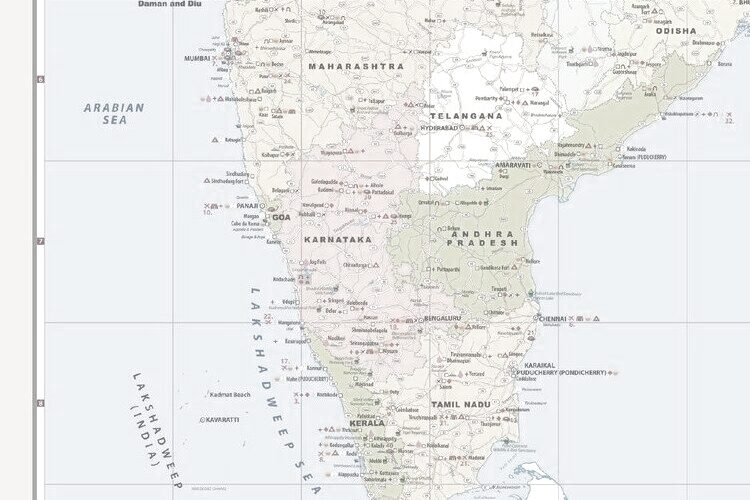
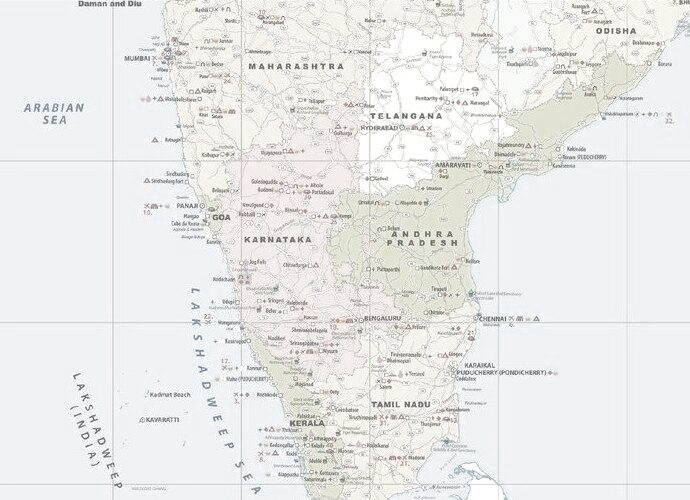
Trim PDF page margin from Kerala map for symmetric edges

diff --git a/tour-nov-2026.html b/tour-nov-2026.html
@@ -791,12 +791,12 @@
             <div class="g" style="background-image:url('images/extensions/kerala-elephants.jpg');"><span class="caption">Wild elephants, Periyar</span></div>
             <div class="g" style="background-image:url('images/extensions/kerala-coconut-climber.jpg');"><span class="caption">Coconut climber</span></div>
           </div>
-          <figure class="ext-route-map" style="aspect-ratio: 750 / 500;" aria-label="Route map: Mumbai to Kerala loop and back">
-            <svg viewBox="0 0 750 500" xmlns="http://www.w3.org/2000/svg" preserveAspectRatio="xMidYMid slice" role="img">
-              <image href="images/kerala-extension-base.jpg" x="0" y="0" width="750" height="500" preserveAspectRatio="xMidYMid slice"/>
+          <figure class="ext-route-map" style="aspect-ratio: 690 / 500;" aria-label="Route map: Mumbai to Kerala loop and back">
+            <svg viewBox="0 0 690 500" xmlns="http://www.w3.org/2000/svg" preserveAspectRatio="xMidYMid slice" role="img">
+              <image href="images/kerala-extension-base.jpg" x="0" y="0" width="690" height="500" preserveAspectRatio="xMidYMid slice"/>
 
               <!-- Title card top-right -->
-              <g transform="translate(508,22)">
+              <g transform="translate(448,22)">
                 <rect width="224" height="118" fill="rgba(251,248,240,0.95)" stroke="#9E532B" stroke-width="1"/>
                 <text x="14" y="22" font-family="Inter Tight, sans-serif" font-size="9" letter-spacing="2" fill="#9E532B" font-weight="600">POST-TOUR EXTENSION</text>
                 <text x="14" y="46" font-family="Fraunces, Georgia, serif" font-size="18" font-weight="600" fill="#14213D">Five days in Kerala</text>
@@ -810,39 +810,39 @@
 
               <!-- Flight path halo (Mumbai → Cochin curve) -->
               <g stroke="#FBF8F0" stroke-width="11" fill="none" stroke-linecap="round" opacity="0.9">
-                <path d="M 208 60 Q 145 245, 258 400"/>
+                <path d="M 148 60 Q 85 245, 198 400"/>
               </g>
               <!-- Flight path dashed -->
-              <path d="M 208 60 Q 145 245, 258 400" stroke="#9E532B" stroke-width="2.8" fill="none" stroke-linecap="round" stroke-dasharray="7 7"/>
+              <path d="M 148 60 Q 85 245, 198 400" stroke="#9E532B" stroke-width="2.8" fill="none" stroke-linecap="round" stroke-dasharray="7 7"/>
               <!-- Outbound arrow -->
-              <g transform="translate(150, 215) rotate(105)"><path d="M -6 -5 L 4 0 L -6 5 Z" fill="#9E532B"/></g>
+              <g transform="translate(90, 215) rotate(105)"><path d="M -6 -5 L 4 0 L -6 5 Z" fill="#9E532B"/></g>
               <!-- Return arrow -->
-              <g transform="translate(175, 135) rotate(290)"><path d="M -6 -5 L 4 0 L -6 5 Z" fill="#9E532B"/></g>
+              <g transform="translate(115, 135) rotate(290)"><path d="M -6 -5 L 4 0 L -6 5 Z" fill="#9E532B"/></g>
 
               <!-- Kerala road loop halo -->
               <g stroke="#FBF8F0" stroke-width="11" fill="none" stroke-linecap="round" stroke-linejoin="round" opacity="0.9">
-                <path d="M 270 405 L 420 380 L 440 440 L 270 465 Z"/>
+                <path d="M 210 405 L 360 380 L 380 440 L 210 465 Z"/>
               </g>
               <!-- Kerala road loop solid -->
-              <path d="M 270 405 L 420 380 L 440 440 L 270 465 Z"
+              <path d="M 210 405 L 360 380 L 380 440 L 210 465 Z"
                     stroke="#9E532B" stroke-width="2.8" fill="none" stroke-linecap="round" stroke-linejoin="round"/>
 
               <!-- Markers -->
               <g font-family="Inter Tight, sans-serif" font-weight="600" font-size="12" text-anchor="middle">
-                <g transform="translate(195,50)"><circle r="14" fill="#FBF8F0" stroke="#9E532B" stroke-width="2.4"/><text y="4" fill="#9E532B">1</text></g>
-                <g transform="translate(270,405)"><circle r="13" fill="#FBF8F0" stroke="#9E532B" stroke-width="2.2"/><text y="4" fill="#9E532B">2</text></g>
-                <g transform="translate(420,380)"><circle r="13" fill="#FBF8F0" stroke="#9E532B" stroke-width="2.2"/><text y="4" fill="#9E532B">3</text></g>
-                <g transform="translate(440,440)"><circle r="13" fill="#FBF8F0" stroke="#9E532B" stroke-width="2.2"/><text y="4" fill="#9E532B">4</text></g>
-                <g transform="translate(270,465)"><circle r="13" fill="#FBF8F0" stroke="#9E532B" stroke-width="2.2"/><text y="4" fill="#9E532B">5</text></g>
+                <g transform="translate(135,50)"><circle r="14" fill="#FBF8F0" stroke="#9E532B" stroke-width="2.4"/><text y="4" fill="#9E532B">1</text></g>
+                <g transform="translate(210,405)"><circle r="13" fill="#FBF8F0" stroke="#9E532B" stroke-width="2.2"/><text y="4" fill="#9E532B">2</text></g>
+                <g transform="translate(360,380)"><circle r="13" fill="#FBF8F0" stroke="#9E532B" stroke-width="2.2"/><text y="4" fill="#9E532B">3</text></g>
+                <g transform="translate(380,440)"><circle r="13" fill="#FBF8F0" stroke="#9E532B" stroke-width="2.2"/><text y="4" fill="#9E532B">4</text></g>
+                <g transform="translate(210,465)"><circle r="13" fill="#FBF8F0" stroke="#9E532B" stroke-width="2.2"/><text y="4" fill="#9E532B">5</text></g>
               </g>
 
               <!-- City labels -->
               <g font-family="Fraunces, Georgia, serif" font-weight="600" font-size="15" fill="#14213D">
-                <text x="216" y="55" text-anchor="start">Mumbai</text>
-                <text x="253" y="409" text-anchor="end">Cochin</text>
-                <text x="438" y="384" text-anchor="start">Munnar</text>
-                <text x="458" y="444" text-anchor="start">Thekkady</text>
-                <text x="253" y="469" text-anchor="end">Kumarakom</text>
+                <text x="156" y="55" text-anchor="start">Mumbai</text>
+                <text x="193" y="409" text-anchor="end">Cochin</text>
+                <text x="378" y="384" text-anchor="start">Munnar</text>
+                <text x="398" y="444" text-anchor="start">Thekkady</text>
+                <text x="193" y="469" text-anchor="end">Kumarakom</text>
               </g>
             </svg>
           </figure>